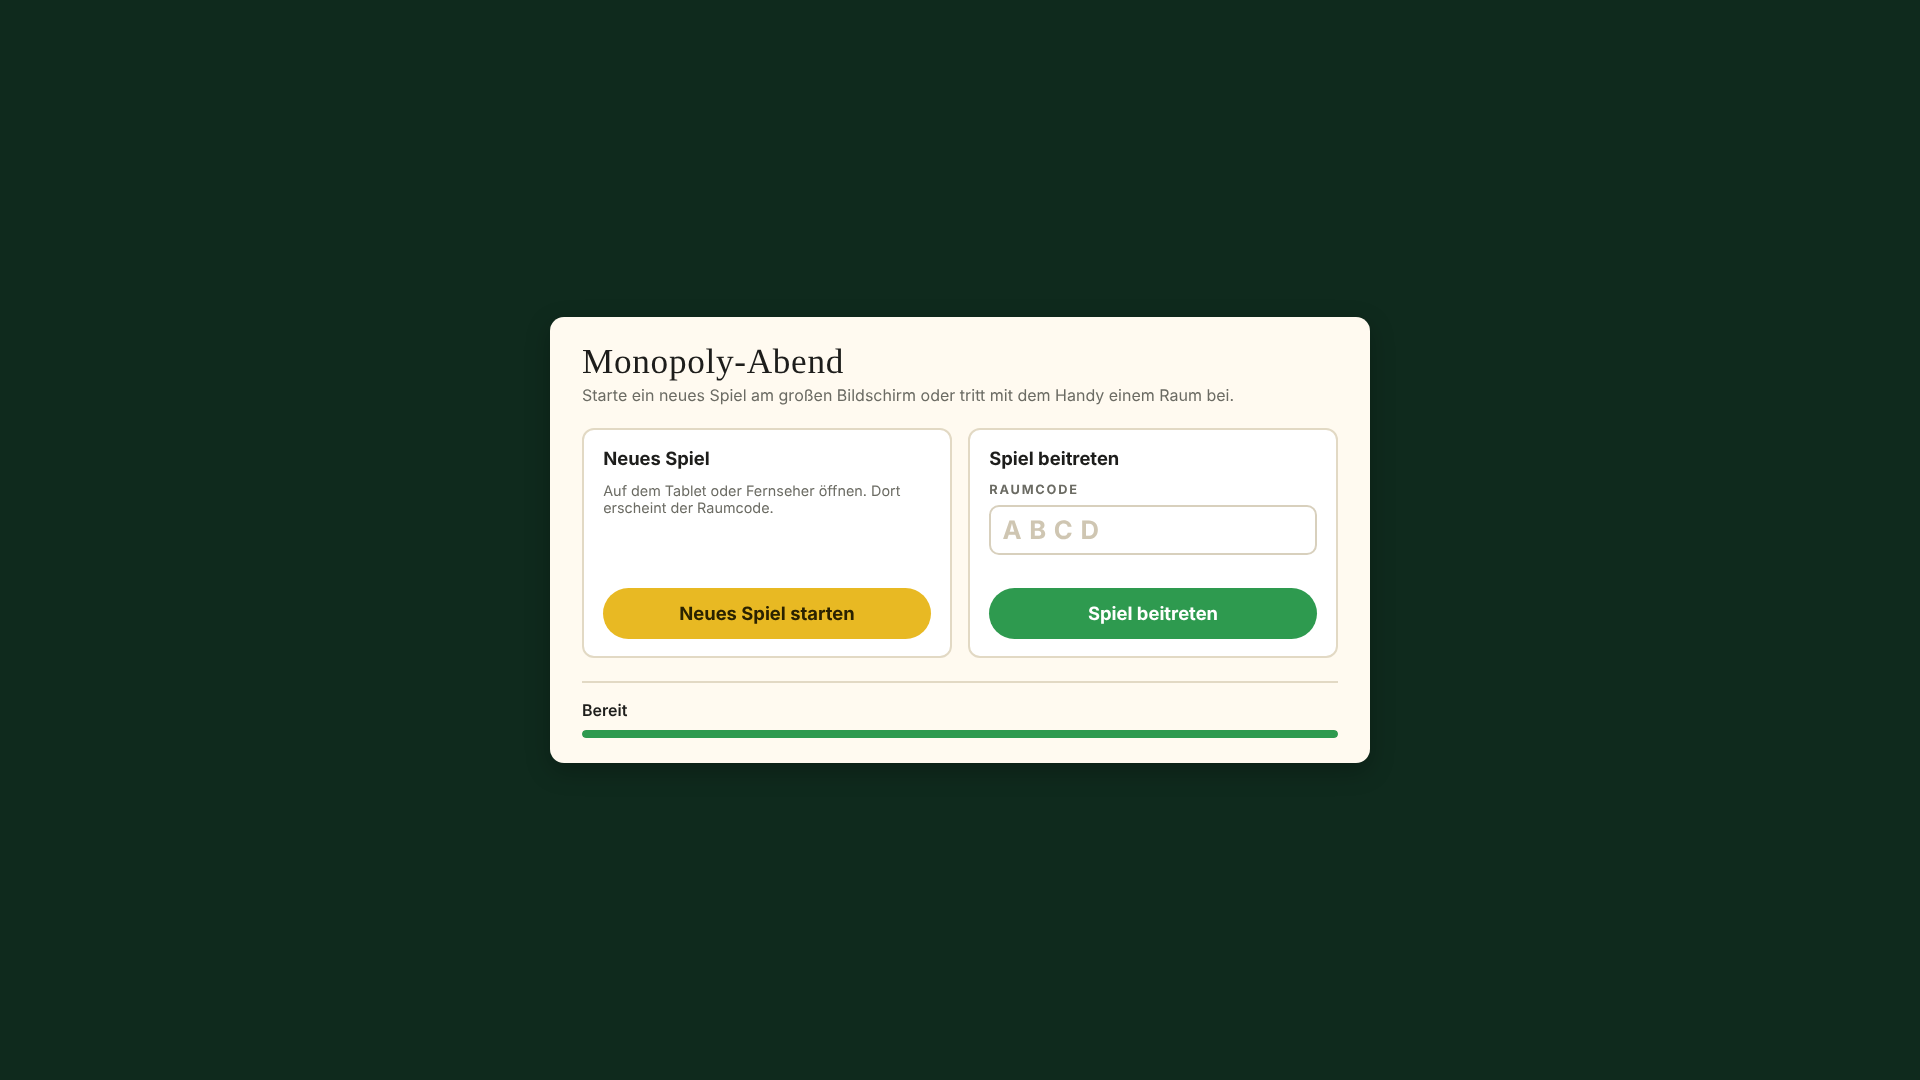
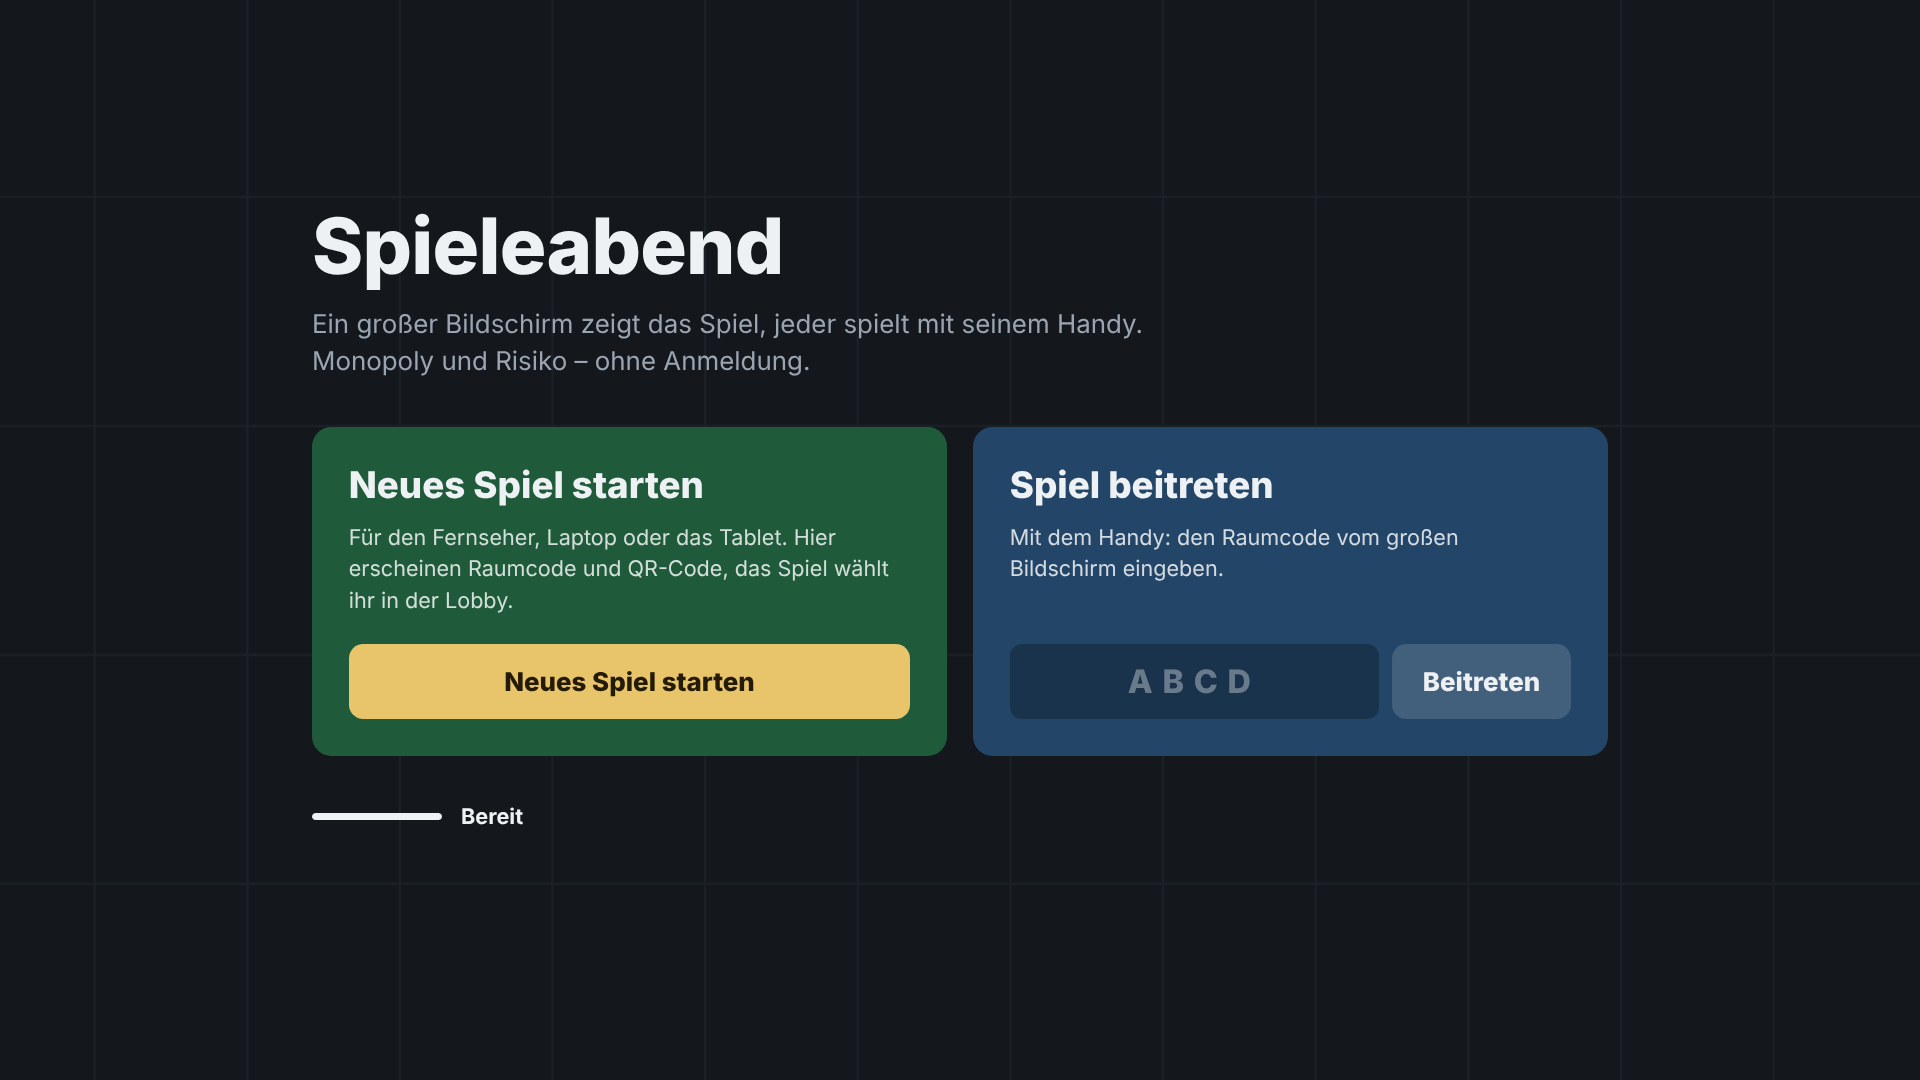
Weckseite im Design der Startseite (Spieleabend)
Titel, Karten, Farben, Schrift, Raster-Hintergrund und Ladestreifen
aus public/start/ und public/shared/lobby.css nach wake/ kopiert.
Weck-Logik, CORS-Rückfall und SERVER in wake/wake.js unverändert.
Bildschirmfotos ersetzt, Plan: erneut in die bestehende Netlify-Seite
rundestarten hochladen.

Claude-Session: https://claude.ai/code/session_01Do3KX8sJTScCbDfYPHcbX6

Changed region(s): [[0.1562, 0.1833, 0.8438, 0.7333], [0.1562, 0.7333, 0.2812, 0.7639]]

diff --git a/wake/wake.css b/wake/wake.css
@@ -1,79 +1,88 @@
-/* Weckseite – Farben und Schrift wie die Lobby der Host-Ansicht (public/shared/base.css, public/board/board.css) */
+/* Weckseite – Kopie des Aussehens der Startseite (public/start/start.css, public/shared/lobby.css).
+ * Bewusst kopiert, nicht verlinkt: Die Seite liegt auf Netlify und lädt nichts vom Server. */
 :root {
-  --bg: #0f2a1d;
-  --bg-2: #163a28;
-  --panel: #fffaf0;
-  --panel-2: #f3ecdc;
-  --ink: #1d1d1b;
-  --muted: #6b6b63;
-  --line: #e2d9c4;
-  --gold: #e8b923;
-  --red: #c8332b;
-  --green: #2e9a4f;
-  --font-display: "Alfa Slab One", Rockwell, "Roboto Slab", Georgia, serif;
+  --lb-bg: #14181d; --lb-bg-shape: #1b2027; --lb-panel: #1d232b;
+  --lb-text: #eef1f3; --lb-muted: #9aa5b1;
+  --lb-accent: #e8c46a; --lb-accent-ink: #231b05;
+  --lb-mono: #1f5a3a; --lb-risk: #234567;
+  --lb-error: #f0c4be;
   --font-body: Barlow, system-ui, -apple-system, "Segoe UI", Roboto, sans-serif;
-  --radius: 14px;
-  --shadow: 0 8px 24px rgba(0, 0, 0, .25);
 }
 
 * { box-sizing: border-box; }
-html { background: var(--bg); }
+html { min-height: 100%; background: var(--lb-bg); }
 body {
-  margin: 0; min-height: 100vh; min-height: 100dvh; display: grid; place-items: center; padding: 16px;
-  font-family: var(--font-body); color: var(--ink); background: var(--bg);
+  margin: 0; position: relative; overflow-x: hidden; min-height: 100%;
+  font-family: var(--font-body); color: var(--lb-text); background: var(--lb-bg);
+  font-size: clamp(15px, min(1.15vw, 2vh), 24px);
 }
 .hidden { display: none !important; }
+.sr-only { position: absolute; width: 1px; height: 1px; overflow: hidden; clip: rect(0 0 0 0); white-space: nowrap; }
 
-.card { background: var(--panel); border-radius: var(--radius); box-shadow: var(--shadow); padding: 1.6rem 2rem; width: min(820px, 100%); }
-h1 { font-family: var(--font-display); font-weight: 400; letter-spacing: .02em; font-size: 2.2rem; margin: 0 0 .2rem; text-wrap: balance; }
-h2 { font-size: 1.15rem; margin: 0 0 .3rem; }
-.sub { color: var(--muted); margin: 0 0 1.4rem; }
+/* ---------- Hintergrund: flaches Raster, ohne Bewegung (wie die Startseite) ---------- */
+.bg { position: absolute; inset: 0; overflow: hidden; pointer-events: none; z-index: 0; }
+.bg svg { position: absolute; inset: -3% -3%; width: 106%; height: 106%; display: block; }
+.bg .grid-line { stroke: var(--lb-bg-shape); stroke-width: 2; fill: none; }
 
-.actions { display: grid; grid-template-columns: 1fr 1fr; gap: 1rem; }
-.action { display: flex; flex-direction: column; gap: .5rem; margin: 0; padding: 1.1rem 1.2rem; background: #fff; border: 2px solid var(--line); border-radius: 12px; }
-.action .btn { margin-top: auto; }
-.hint { color: var(--muted); font-size: .9rem; margin: 0 0 .4rem; }
-.field { font-size: .8rem; letter-spacing: .14em; text-transform: uppercase; color: var(--muted); font-weight: 700; }
-input {
-  font: inherit; font-size: 1.6rem; font-weight: 700; letter-spacing: .3em; text-transform: uppercase;
-  padding: .45rem .7rem; border: 2px solid #d8d0bd; border-radius: 10px; background: #fff; color: var(--ink); width: 100%; min-width: 0;
+.wrap {
+  position: relative; z-index: 1; min-height: 100vh; min-height: 100dvh; max-width: 64em; margin: 0 auto;
+  padding: 3em 2em; display: flex; flex-direction: column; justify-content: center; gap: 2.2em;
 }
-input::placeholder { color: #cfc6b2; }
-input:focus { outline: none; border-color: var(--gold); }
-input[aria-invalid="true"] { border-color: var(--red); }
-.msg { min-height: 1.2em; margin: 0; font-size: .9rem; color: var(--red); font-weight: 600; }
+.title { font-family: var(--font-body); font-weight: 800; font-size: 3.6em; letter-spacing: -.01em; margin: 0 0 .25em; line-height: 1; }
+.sub { margin: 0; color: var(--lb-muted); font-size: 1.2em; line-height: 1.45; max-width: 34em; }
+
+/* ---------- Karten ---------- */
+.actions { display: grid; grid-template-columns: 1fr 1fr; gap: 1.2em; }
+.card { background: var(--lb-panel); border-radius: .9em; padding: 1.6em 1.7em 1.7em; display: flex; flex-direction: column; gap: .7em; }
+.card-new { background: var(--lb-mono); }
+.card-join { background: var(--lb-risk); }
+.card h2 { margin: 0; font-size: 1.7em; font-weight: 800; }
+.card p { margin: 0 0 .6em; color: rgba(255, 255, 255, .8); line-height: 1.45; }
 
 .btn {
-  border: 0; border-radius: 999px; padding: .65rem 1.2rem; font: inherit; font-weight: 700;
-  cursor: pointer; transition: transform .1s, filter .15s; color: var(--ink); background: #e9e1cf;
+  font: inherit; font-weight: 800; font-size: 1.2em; border: 0; border-radius: .55em; cursor: pointer; min-height: 2.9em;
+  padding: .6em 1.2em; background: rgba(255, 255, 255, .14); color: var(--lb-text); margin-top: auto;
 }
-.btn:hover { filter: brightness(1.06); }
-.btn:active { transform: scale(.97); }
-.btn:focus-visible { outline: 3px solid var(--gold); outline-offset: 2px; }
-.btn.big { padding: .9rem 1.6rem; font-size: 1.15rem; width: 100%; }
-.btn.primary { background: var(--gold); color: #2a2200; }
-.btn.go { background: var(--green); color: #fff; }
-.btn.ghost { background: transparent; border: 2px solid currentColor; }
-.btn.chosen { box-shadow: 0 0 0 3px var(--panel), 0 0 0 6px var(--ink); }
+.btn.primary { background: var(--lb-accent); color: var(--lb-accent-ink); }
+.btn:focus-visible { outline: 3px solid var(--lb-text); outline-offset: 3px; }
+/* Gewählte Aktion, solange der Server noch startet */
+.btn.chosen { box-shadow: 0 0 0 3px var(--lb-text); }
 
-.status { margin-top: 1.4rem; padding-top: 1.1rem; border-top: 2px solid var(--line); display: flex; flex-direction: column; gap: .6rem; }
-.status-text { margin: 0; font-weight: 600; }
-.bar { height: 8px; border-radius: 999px; background: var(--panel-2); overflow: hidden; }
-.bar-fill { height: 100%; width: 0; background: var(--gold); border-radius: inherit; transition: width .6s ease-out, background .3s; }
-.status[data-state="ready"] .bar-fill { background: var(--green); }
-.status[data-state="failed"] .bar-fill { background: var(--red); }
-.status[data-state="failed"] .status-text { color: var(--red); }
-.pending { margin: 0; color: var(--muted); }
-#btn-retry { align-self: flex-start; }
-
-@media (max-width: 640px) {
-  .card { padding: 1.2rem 1.1rem; }
-  h1 { font-size: 1.8rem; }
-  .actions { grid-template-columns: 1fr; }
-  /* Am Handy steht das Beitreten oben */
-  #join-form { order: -1; }
+.join-form { display: grid; grid-template-columns: minmax(0, 1fr) auto; gap: .6em; margin-top: auto; }
+.join-form .btn { margin-top: 0; }
+.code {
+  font: inherit; font-weight: 800; font-size: 1.5em; letter-spacing: .3em; text-align: center; text-transform: uppercase;
+  min-height: 1.95em; border-radius: .37em; border: 2px solid transparent; background: rgba(0, 0, 0, .25); color: var(--lb-text);
+  padding: 0 .4em; width: 100%; min-width: 0;
 }
+.code::placeholder { color: rgba(255, 255, 255, .35); }
+.code:focus { border-color: var(--lb-accent); outline: none; }
+.code[aria-invalid="true"] { border-color: var(--lb-error); }
+.card .msg { margin: 0; font-weight: 600; color: var(--lb-error); }
+.card .msg:empty { display: none; }
+
+/* ---------- Status: Ladestreifen wie auf der Startseite ---------- */
+.status { min-height: 3.2em; display: grid; gap: .6em; align-content: start; justify-items: start; }
+.wait { display: flex; align-items: center; gap: .9em; color: var(--lb-muted); }
+.status-text { margin: 0; }
+.bar { position: relative; width: 6em; height: .3em; border-radius: 1em; background: rgba(255, 255, 255, .12); overflow: hidden; flex: none; }
+.bar-fill { position: absolute; top: 0; bottom: 0; left: 0; width: 0; border-radius: 1em; background: var(--lb-text); opacity: .7; transition: width .6s ease-out; }
+.status[data-state="ready"] .status-text { color: var(--lb-text); font-weight: 700; }
+.status[data-state="ready"] .bar-fill { opacity: 1; }
+.status[data-state="failed"] .status-text { color: var(--lb-error); font-weight: 600; }
+.status[data-state="failed"] .bar-fill { background: var(--lb-error); }
+.pending { margin: 0; font-weight: 600; }
+.btn.retry { margin-top: 0; font-size: 1em; min-height: 2.6em; }
 
 @media (prefers-reduced-motion: reduce) {
-  .bar-fill, .btn { transition: none; }
+  .bar-fill { transition: none; }
+}
+
+@media (max-width: 720px) {
+  body { font-size: 16px; }
+  .wrap { padding: 1.5em 16px; justify-content: flex-start; gap: 1.2em; }
+  .title { font-size: 2.6em; }
+  .actions { grid-template-columns: 1fr; }
+  /* Am Handy will man meist beitreten: das zuerst */
+  .card-join { order: -1; }
 }

diff --git a/wake/index.html b/wake/index.html
@@ -2,41 +2,56 @@
 <html lang="de">
 <head>
   <meta charset="UTF-8" />
-  <meta name="viewport" content="width=device-width, initial-scale=1" />
-  <title>Monopoly-Abend</title>
+  <meta name="viewport" content="width=device-width, initial-scale=1, viewport-fit=cover" />
+  <meta name="theme-color" content="#14181d" />
+  <title>Spieleabend</title>
   <meta name="robots" content="noindex" />
   <link rel="icon" href="data:," />
   <link rel="stylesheet" href="wake.css" />
 </head>
 <body>
-  <main class="card">
-    <h1>Monopoly-Abend</h1>
-    <p class="sub">Starte ein neues Spiel am großen Bildschirm oder tritt mit dem Handy einem Raum bei.</p>
+  <!-- Flaches Raster wie der Hintergrund der Startseite (lbBackground in public/shared/lobby.js) -->
+  <div class="bg" aria-hidden="true">
+    <svg viewBox="0 0 1600 900" preserveAspectRatio="xMidYMid slice">
+      <path class="grid-line" d="M0 0V900M120 0V900M240 0V900M360 0V900M480 0V900M600 0V900M720 0V900M840 0V900M960 0V900M1080 0V900M1200 0V900M1320 0V900M1440 0V900M1560 0V900M0 0H1600M0 180H1600M0 360H1600M0 540H1600M0 720H1600M0 900H1600" />
+    </svg>
+  </div>
+
+  <main class="wrap">
+    <header class="head">
+      <h1 class="title">Spieleabend</h1>
+      <p class="sub">Ein großer Bildschirm zeigt das Spiel, jeder spielt mit seinem Handy. Monopoly und Risiko – ohne Anmeldung.</p>
+    </header>
 
     <div class="actions">
-      <section class="action">
-        <h2>Neues Spiel</h2>
-        <p class="hint">Auf dem Tablet oder Fernseher öffnen. Dort erscheint der Raumcode.</p>
-        <button id="btn-new" class="btn primary big" type="button">Neues Spiel starten</button>
+      <section class="card card-new" aria-labelledby="new-title">
+        <h2 id="new-title">Neues Spiel starten</h2>
+        <p>Für den Fernseher, Laptop oder das Tablet. Hier erscheinen Raumcode und QR-Code, das Spiel wählt ihr in der Lobby.</p>
+        <button id="btn-new" class="btn primary" type="button">Neues Spiel starten</button>
       </section>
 
-      <form id="join-form" class="action" novalidate>
-        <h2>Spiel beitreten</h2>
-        <label class="field" for="join-code">Raumcode</label>
-        <input id="join-code" name="room" type="text" inputmode="text" autocomplete="off" autocapitalize="characters"
-               spellcheck="false" placeholder="ABCD" aria-describedby="join-msg" />
+      <section class="card card-join" aria-labelledby="join-title">
+        <h2 id="join-title">Spiel beitreten</h2>
+        <p>Mit dem Handy: den Raumcode vom großen Bildschirm eingeben.</p>
+        <form id="join-form" class="join-form" novalidate>
+          <label class="sr-only" for="join-code">Raumcode</label>
+          <input id="join-code" class="code" name="room" type="text" inputmode="text" autocomplete="off" autocapitalize="characters"
+                 spellcheck="false" placeholder="ABCD" aria-describedby="join-msg" />
+          <button id="btn-join" class="btn" type="submit">Beitreten</button>
+        </form>
         <p id="join-msg" class="msg" role="alert"></p>
-        <button id="btn-join" class="btn go big" type="submit">Spiel beitreten</button>
-      </form>
+      </section>
     </div>
 
     <div id="status" class="status" data-state="waking">
-      <p id="status-text" class="status-text" aria-live="polite">Der Server startet, das dauert bis zu einer Minute.</p>
-      <div class="bar" role="progressbar" aria-label="Server startet" aria-valuemin="0" aria-valuemax="100" aria-valuenow="0">
-        <div id="bar-fill" class="bar-fill"></div>
+      <div class="wait">
+        <div class="bar" role="progressbar" aria-label="Server startet" aria-valuemin="0" aria-valuemax="100" aria-valuenow="0">
+          <div id="bar-fill" class="bar-fill"></div>
+        </div>
+        <p id="status-text" class="status-text" aria-live="polite">Der Server startet, das dauert bis zu einer Minute.</p>
       </div>
       <p id="pending" class="pending hidden"></p>
-      <button id="btn-retry" class="btn ghost hidden" type="button">Erneut versuchen</button>
+      <button id="btn-retry" class="btn retry hidden" type="button">Erneut versuchen</button>
     </div>
   </main>
   <script src="wake.js"></script>

diff --git a/docs/spielcenter-plan.md b/docs/spielcenter-plan.md
@@ -82,12 +82,15 @@ Ziel: Aus dem Monopoly-Abend wird ein Spielcenter mit mehreren Spielen.
 
 ### Weckseite auf Netlify veröffentlichen
 Render legt den kostenlosen Dienst nach etwa 15 Minuten schlafen. Die statische Weckseite in `wake/` weckt ihn auf und leitet weiter, sobald `/healthz` mit `ok: true` antwortet. Sie ist der Link, den man an Freunde schickt.
-1. Auf [app.netlify.com/drop](https://app.netlify.com/drop) den Ordner `wake/` hineinziehen. Das legt eine **neue Seite** an. Nicht in das bestehende Projekt `poolgames69` hochladen.
+1. Einmalig (erledigt, die Seite heißt `rundestarten`, Adresse `https://rundestarten.netlify.app`): Auf [app.netlify.com/drop](https://app.netlify.com/drop) den Ordner `wake/` hineinziehen. Das legt eine **neue Seite** an. Nicht in das bestehende Projekt `poolgames69` hochladen.
 2. Die Adresse der neuen Seite notieren, z. B. `https://name.netlify.app`. Unter *Site configuration* lässt sich der Name ändern.
 3. Bei Render im Dienst `monopoly-abend` unter *Environment* die Variable `WAKE_ORIGIN` auf genau diese Adresse setzen: mit `https://`, ohne Pfad und ohne Schrägstrich am Ende. Danach neu deployen.
    - Erst damit darf die Weckseite den Status von `/healthz` lesen. Der Server erlaubt nur genau diese Origin, ohne Stern.
    - Ohne `WAKE_ORIGIN` funktioniert die Seite trotzdem über einen ungenauen Rückfall (Anfrage im no-cors-Modus). Sie leitet dann schon weiter, sobald Render irgendetwas antwortet, notfalls auf Renders eigene Warteseite.
-4. Ändert sich die Render-Adresse, nur die Konstante `SERVER` oben in `wake/wake.js` anpassen und den Ordner erneut hochladen (bei Netlify unter *Deploys* per Drag-and-drop).
+4. Ändert sich die Render-Adresse, nur die Konstante `SERVER` oben in `wake/wake.js` anpassen und den Ordner erneut hochladen (siehe 5).
+5. **Nach jeder Änderung an `wake/` (z. B. nach dem Merge des neuen Designs):** den Ordner erneut hochladen, und zwar in die **bestehende** Seite, nicht über Netlify Drop. Bei Netlify das Projekt `rundestarten` öffnen, Tab *Deploys*, den Ordner `wake/` in das Feld zum Hochladen ziehen. So bleibt die Adresse `https://rundestarten.netlify.app` erhalten und `WAKE_ORIGIN` bei Render bleibt unverändert gültig. Eine neue Seite hätte eine andere Adresse, dann dürfte die Weckseite `/healthz` nicht mehr lesen.
+
+Die Weckseite sieht aus wie die Startseite (`public/start/`): Titel „Spieleabend“, grüne Karte „Neues Spiel starten“, blaue Karte „Spiel beitreten“, Ladestreifen darunter. Farben und Maße sind aus `public/start/start.css` und `public/shared/lobby.css` nach `wake/wake.css` **kopiert**, weil die Seite eigenständig auf Netlify liegt und außer `/healthz` nichts vom Server lädt. Ändert sich das Design der Startseite, `wake/` von Hand nachziehen.
 
 ### Noch zu klären
 - Render: Welcher Branch ist verbunden, ist `PUBLIC_URL` gesetzt, welche Node-Version läuft, bleibt es beim Free-Plan?
